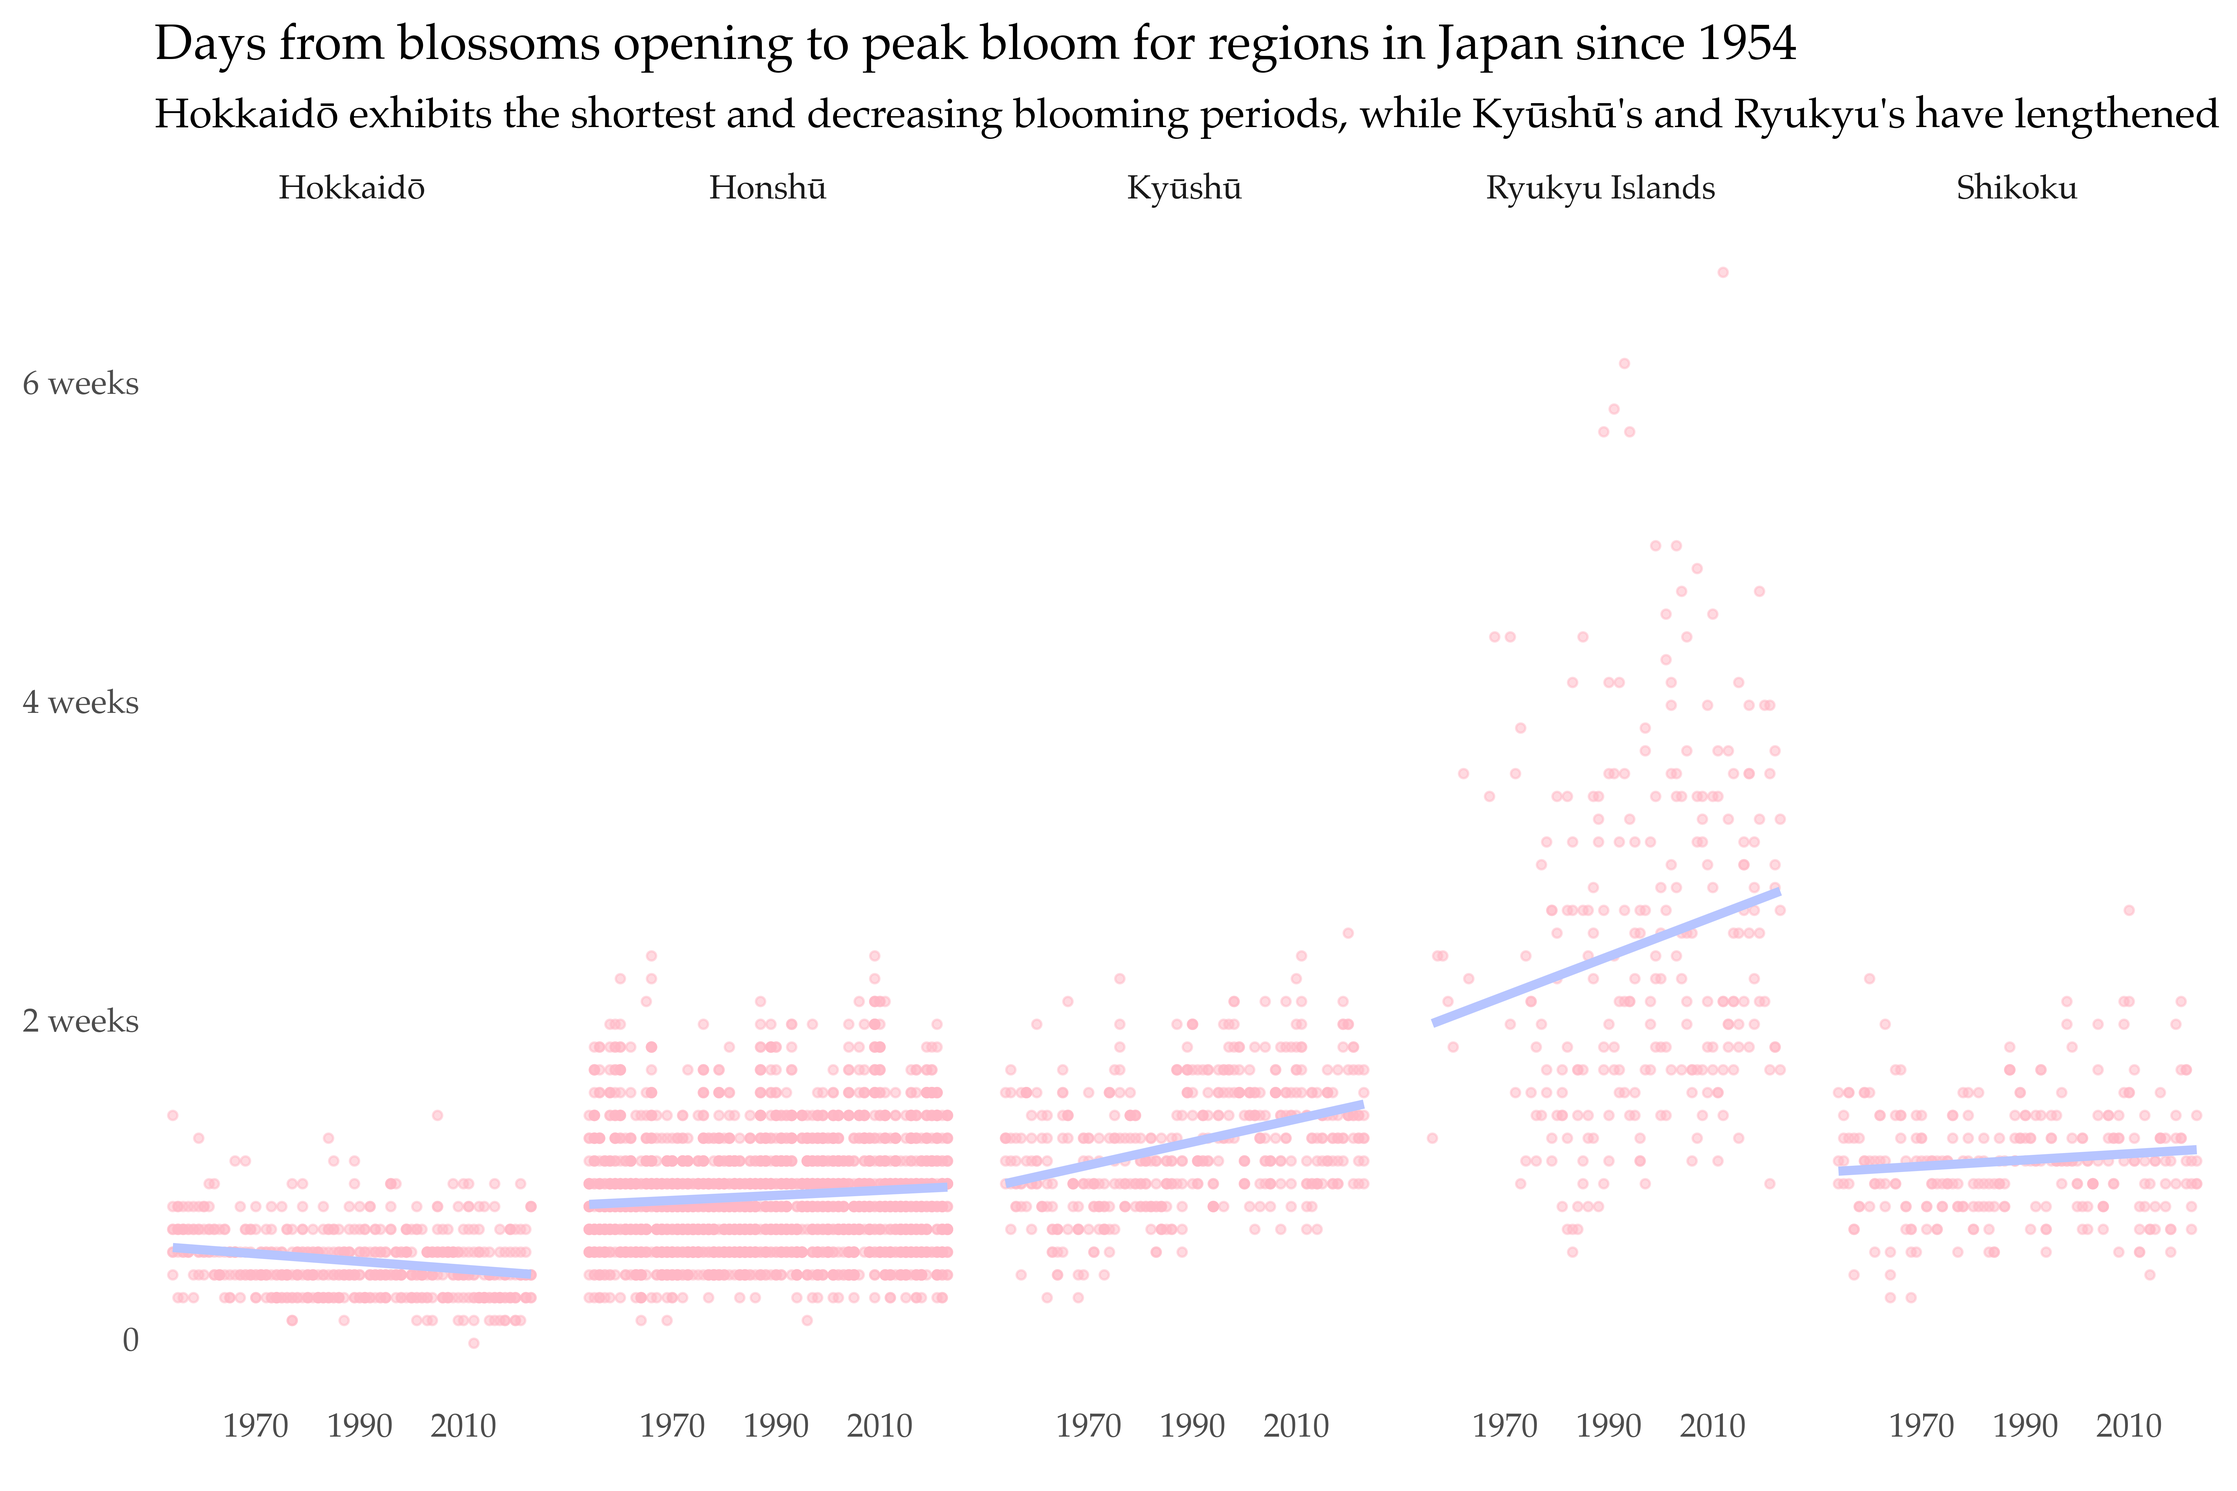
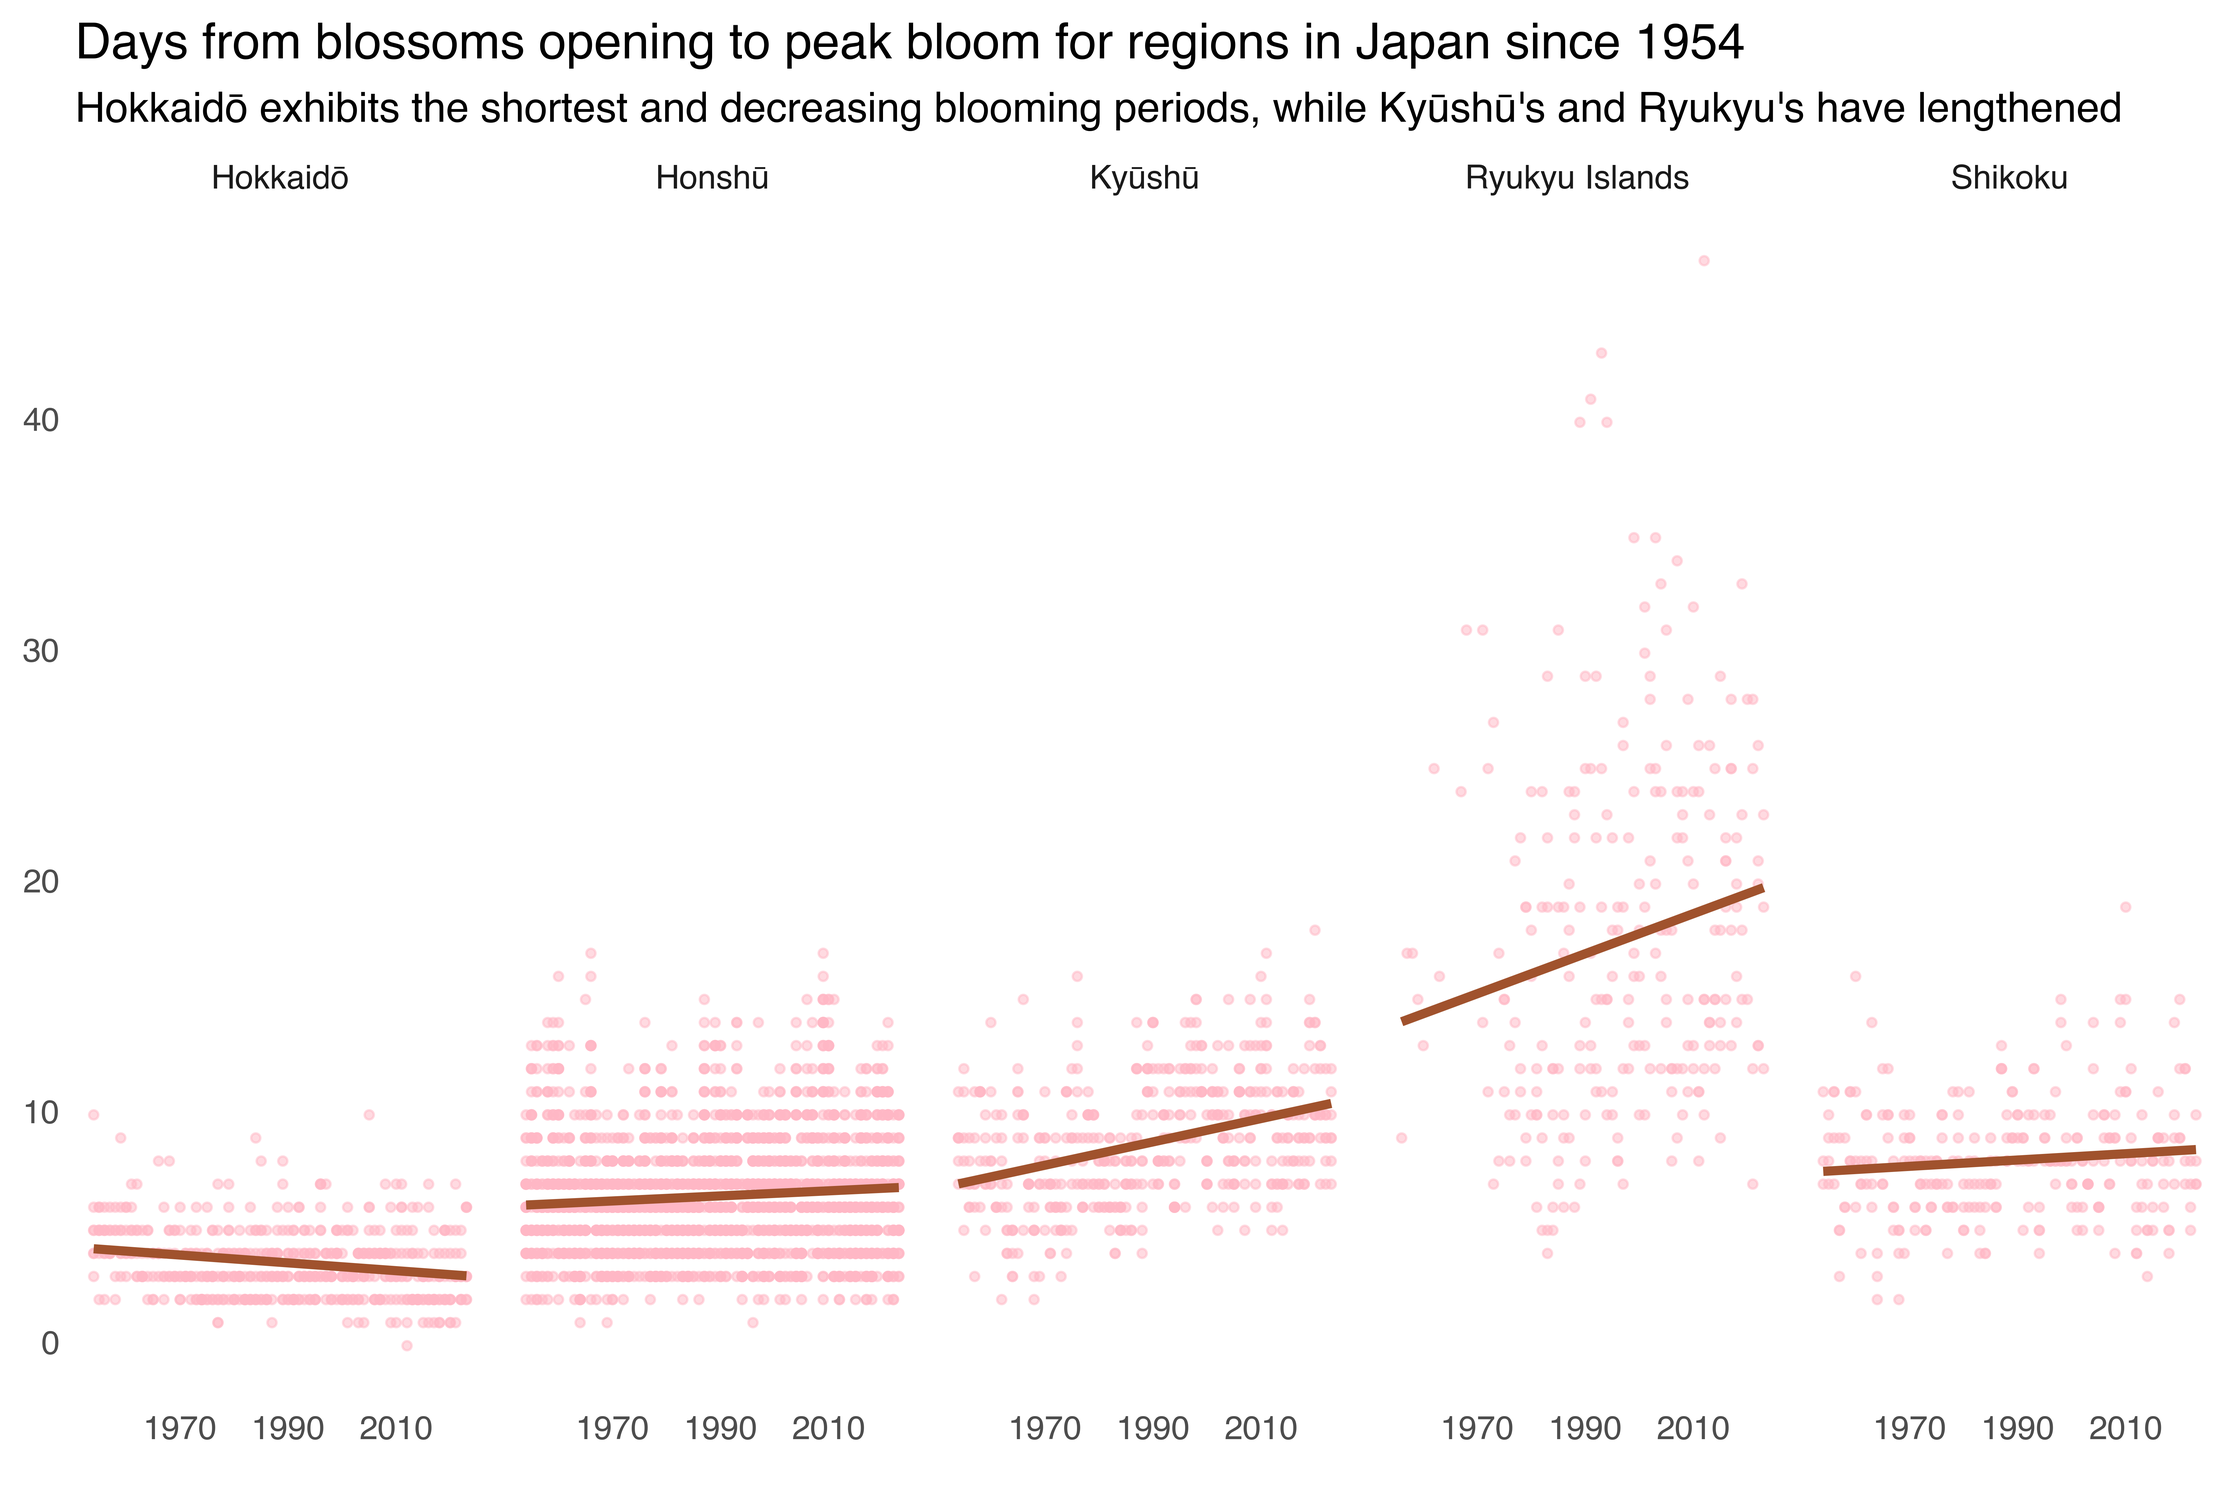
Updated font and color of line in posts/sakura-visualizations

diff --git a/docs/posts/sakura-visualizations/index.html b/docs/posts/sakura-visualizations/index.html
@@ -320,8 +320,9 @@ cookieconsent.run({
 <span id="cb4-17"><a href="#cb4-17" aria-hidden="true" tabindex="-1"></a>  .select(<span class="op">~</span>s.contains(<span class="st">"_right"</span>))</span>
 <span id="cb4-18"><a href="#cb4-18" aria-hidden="true" tabindex="-1"></a>  .mutate(year <span class="op">=</span> _.year.cast(<span class="st">"int32"</span>))</span>
 <span id="cb4-19"><a href="#cb4-19" aria-hidden="true" tabindex="-1"></a>  .mutate(days_to_full_bloom <span class="op">=</span> (_.full_bloom <span class="op">-</span> ibis.date(_.year.cast(<span class="st">'string'</span>) <span class="op">+</span> <span class="st">'-01-01'</span>)).cast(<span class="st">'interval("D")'</span>).cast(<span class="st">"int32"</span>),</span>
-<span id="cb4-20"><a href="#cb4-20" aria-hidden="true" tabindex="-1"></a>          days_from_first_to_full_bloom <span class="op">=</span> _.full_bloom <span class="op">-</span> _.first_bloom)</span>
-<span id="cb4-21"><a href="#cb4-21" aria-hidden="true" tabindex="-1"></a>)</span></code><button title="Copy to Clipboard" class="code-copy-button"><i class="bi"></i></button></pre></div>
+<span id="cb4-20"><a href="#cb4-20" aria-hidden="true" tabindex="-1"></a>          days_from_first_to_full_bloom<span class="op">=</span>(_.full_bloom <span class="op">-</span> _.first_bloom).cast(<span class="st">'interval("D")'</span>).cast(<span class="st">"int32"</span>)</span>
+<span id="cb4-21"><a href="#cb4-21" aria-hidden="true" tabindex="-1"></a>    )</span>
+<span id="cb4-22"><a href="#cb4-22" aria-hidden="true" tabindex="-1"></a>)</span></code><button title="Copy to Clipboard" class="code-copy-button"><i class="bi"></i></button></pre></div>
 </div>
 </div>
 </div>
@@ -391,7 +392,7 @@ cookieconsent.run({
 <div class="tab-content">
 <div id="tabset-5-1" class="tab-pane active" role="tabpanel" aria-labelledby="tabset-5-1-tab">
 <div class="cell">
-<div class="sourceCode cell-code" id="cb9"><pre class="sourceCode r code-with-copy"><code class="sourceCode r"><span id="cb9-1"><a href="#cb9-1" aria-hidden="true" tabindex="-1"></a><span class="fu">theme_set</span>(<span class="fu">theme_classic</span>(<span class="at">base_size =</span> <span class="dv">16</span>, <span class="at">base_family =</span> <span class="st">"Palatino"</span>)) </span>
+<div class="sourceCode cell-code" id="cb9"><pre class="sourceCode r code-with-copy"><code class="sourceCode r"><span id="cb9-1"><a href="#cb9-1" aria-hidden="true" tabindex="-1"></a><span class="fu">theme_set</span>(<span class="fu">theme_classic</span>(<span class="at">base_size =</span> <span class="dv">16</span>, <span class="at">base_family =</span> <span class="st">"SF Pro Light"</span>)) </span>
 <span id="cb9-2"><a href="#cb9-2" aria-hidden="true" tabindex="-1"></a></span>
 <span id="cb9-3"><a href="#cb9-3" aria-hidden="true" tabindex="-1"></a><span class="fu">theme_update</span>(</span>
 <span id="cb9-4"><a href="#cb9-4" aria-hidden="true" tabindex="-1"></a>  <span class="at">panel.grid.minor =</span> <span class="fu">element_blank</span>(),</span>
@@ -403,26 +404,36 @@ cookieconsent.run({
 <span id="cb9-10"><a href="#cb9-10" aria-hidden="true" tabindex="-1"></a>  <span class="at">axis.line =</span> <span class="fu">element_blank</span>()</span>
 <span id="cb9-11"><a href="#cb9-11" aria-hidden="true" tabindex="-1"></a>)</span>
 <span id="cb9-12"><a href="#cb9-12" aria-hidden="true" tabindex="-1"></a></span>
-<span id="cb9-13"><a href="#cb9-13" aria-hidden="true" tabindex="-1"></a>colors <span class="ot">&lt;-</span> <span class="fu">c</span>(<span class="st">"#ffb7c5"</span>, <span class="st">"#b7c5ff"</span>, <span class="st">"#c5ffb7"</span>)</span>
+<span id="cb9-13"><a href="#cb9-13" aria-hidden="true" tabindex="-1"></a>colors <span class="ot">&lt;-</span> <span class="fu">c</span>(<span class="st">"#ffb7c5"</span>, <span class="st">"#A0522D"</span>)</span>
 <span id="cb9-14"><a href="#cb9-14" aria-hidden="true" tabindex="-1"></a>breaks_year <span class="ot">&lt;-</span> <span class="fu">seq</span>(<span class="dv">1950</span>, <span class="dv">2030</span>, <span class="at">by =</span> <span class="dv">20</span>)</span></code><button title="Copy to Clipboard" class="code-copy-button"><i class="bi"></i></button></pre></div>
 </div>
 </div>
 <div id="tabset-5-2" class="tab-pane" role="tabpanel" aria-labelledby="tabset-5-2-tab">
 <div class="cell">
-<div class="sourceCode cell-code" id="cb10"><pre class="sourceCode python code-with-copy"><code class="sourceCode python"><span id="cb10-1"><a href="#cb10-1" aria-hidden="true" tabindex="-1"></a>theme_set(theme_classic(base_size <span class="op">=</span> <span class="dv">16</span>, base_family <span class="op">=</span> <span class="st">"Palatino"</span>) <span class="op">+</span> theme(figure_size <span class="op">=</span> (<span class="dv">12</span>, <span class="dv">8</span>)))</span>
-<span id="cb10-2"><a href="#cb10-2" aria-hidden="true" tabindex="-1"></a></span>
-<span id="cb10-3"><a href="#cb10-3" aria-hidden="true" tabindex="-1"></a>theme_update(</span>
-<span id="cb10-4"><a href="#cb10-4" aria-hidden="true" tabindex="-1"></a>  panel_grid_minor <span class="op">=</span> element_blank(),</span>
-<span id="cb10-5"><a href="#cb10-5" aria-hidden="true" tabindex="-1"></a>  panel_grid_major <span class="op">=</span> element_blank(),</span>
-<span id="cb10-6"><a href="#cb10-6" aria-hidden="true" tabindex="-1"></a>  strip_background <span class="op">=</span> element_blank(),</span>
-<span id="cb10-7"><a href="#cb10-7" aria-hidden="true" tabindex="-1"></a>  axis_title_x <span class="op">=</span> element_blank(),</span>
-<span id="cb10-8"><a href="#cb10-8" aria-hidden="true" tabindex="-1"></a>  axis_title_y <span class="op">=</span> element_blank(),</span>
-<span id="cb10-9"><a href="#cb10-9" aria-hidden="true" tabindex="-1"></a>  axis_ticks <span class="op">=</span> element_blank(),</span>
-<span id="cb10-10"><a href="#cb10-10" aria-hidden="true" tabindex="-1"></a>  axis_line <span class="op">=</span> element_blank()</span>
-<span id="cb10-11"><a href="#cb10-11" aria-hidden="true" tabindex="-1"></a>)</span>
+<div class="sourceCode cell-code" id="cb10"><pre class="sourceCode python code-with-copy"><code class="sourceCode python"><span id="cb10-1"><a href="#cb10-1" aria-hidden="true" tabindex="-1"></a><span class="im">import</span> matplotlib.pyplot <span class="im">as</span> plt</span>
+<span id="cb10-2"><a href="#cb10-2" aria-hidden="true" tabindex="-1"></a><span class="im">import</span> matplotlib.font_manager <span class="im">as</span> fm</span>
+<span id="cb10-3"><a href="#cb10-3" aria-hidden="true" tabindex="-1"></a></span>
+<span id="cb10-4"><a href="#cb10-4" aria-hidden="true" tabindex="-1"></a>fpath <span class="op">=</span> <span class="st">"/Library/Fonts/SF-Pro.ttf"</span></span>
+<span id="cb10-5"><a href="#cb10-5" aria-hidden="true" tabindex="-1"></a></span>
+<span id="cb10-6"><a href="#cb10-6" aria-hidden="true" tabindex="-1"></a>fm.fontManager.addfont(fpath)</span>
+<span id="cb10-7"><a href="#cb10-7" aria-hidden="true" tabindex="-1"></a>prop <span class="op">=</span> fm.FontProperties(fname<span class="op">=</span>fpath)</span>
+<span id="cb10-8"><a href="#cb10-8" aria-hidden="true" tabindex="-1"></a>font_name <span class="op">=</span> prop.get_name()</span>
+<span id="cb10-9"><a href="#cb10-9" aria-hidden="true" tabindex="-1"></a>plt.rcParams[<span class="st">"font.family"</span>] <span class="op">=</span> font_name</span>
+<span id="cb10-10"><a href="#cb10-10" aria-hidden="true" tabindex="-1"></a></span>
+<span id="cb10-11"><a href="#cb10-11" aria-hidden="true" tabindex="-1"></a>theme_set(theme_classic(base_size <span class="op">=</span> <span class="dv">16</span>) <span class="op">+</span> theme(figure_size <span class="op">=</span> (<span class="dv">12</span>, <span class="dv">8</span>)))</span>
 <span id="cb10-12"><a href="#cb10-12" aria-hidden="true" tabindex="-1"></a></span>
-<span id="cb10-13"><a href="#cb10-13" aria-hidden="true" tabindex="-1"></a>colors <span class="op">=</span> [<span class="st">"#ffb7c5"</span>, <span class="st">"#b7c5ff"</span>, <span class="st">"#c5ffb7"</span>]</span>
-<span id="cb10-14"><a href="#cb10-14" aria-hidden="true" tabindex="-1"></a>breaks_year <span class="op">=</span> <span class="bu">range</span>(<span class="dv">1950</span>, <span class="dv">2031</span>, <span class="dv">20</span>)</span></code><button title="Copy to Clipboard" class="code-copy-button"><i class="bi"></i></button></pre></div>
+<span id="cb10-13"><a href="#cb10-13" aria-hidden="true" tabindex="-1"></a>theme_update(</span>
+<span id="cb10-14"><a href="#cb10-14" aria-hidden="true" tabindex="-1"></a>  panel_grid_minor <span class="op">=</span> element_blank(),</span>
+<span id="cb10-15"><a href="#cb10-15" aria-hidden="true" tabindex="-1"></a>  panel_grid_major <span class="op">=</span> element_blank(),</span>
+<span id="cb10-16"><a href="#cb10-16" aria-hidden="true" tabindex="-1"></a>  strip_background <span class="op">=</span> element_blank(),</span>
+<span id="cb10-17"><a href="#cb10-17" aria-hidden="true" tabindex="-1"></a>  axis_title_x <span class="op">=</span> element_blank(),</span>
+<span id="cb10-18"><a href="#cb10-18" aria-hidden="true" tabindex="-1"></a>  axis_title_y <span class="op">=</span> element_blank(),</span>
+<span id="cb10-19"><a href="#cb10-19" aria-hidden="true" tabindex="-1"></a>  axis_ticks <span class="op">=</span> element_blank(),</span>
+<span id="cb10-20"><a href="#cb10-20" aria-hidden="true" tabindex="-1"></a>  axis_line <span class="op">=</span> element_blank()</span>
+<span id="cb10-21"><a href="#cb10-21" aria-hidden="true" tabindex="-1"></a>)</span>
+<span id="cb10-22"><a href="#cb10-22" aria-hidden="true" tabindex="-1"></a></span>
+<span id="cb10-23"><a href="#cb10-23" aria-hidden="true" tabindex="-1"></a>colors <span class="op">=</span> [<span class="st">"#ffb7c5"</span>, <span class="st">"#A0522D"</span>]</span>
+<span id="cb10-24"><a href="#cb10-24" aria-hidden="true" tabindex="-1"></a>breaks_year <span class="op">=</span> <span class="bu">range</span>(<span class="dv">1950</span>, <span class="dv">2031</span>, <span class="dv">20</span>)</span></code><button title="Copy to Clipboard" class="code-copy-button"><i class="bi"></i></button></pre></div>
 </div>
 </div>
 </div>
@@ -442,7 +453,7 @@ cookieconsent.run({
 <span id="cb11-4"><a href="#cb11-4" aria-hidden="true" tabindex="-1"></a>  <span class="fu">geom_smooth</span>(<span class="at">method =</span> lm, <span class="at">se =</span> <span class="cn">FALSE</span>,</span>
 <span id="cb11-5"><a href="#cb11-5" aria-hidden="true" tabindex="-1"></a>              <span class="at">color =</span> colors[<span class="dv">2</span>], <span class="at">linewidth =</span> <span class="dv">2</span>) <span class="sc">+</span></span>
 <span id="cb11-6"><a href="#cb11-6" aria-hidden="true" tabindex="-1"></a>  <span class="fu">facet_wrap</span>(<span class="sc">~</span>region, <span class="at">nrow =</span> <span class="dv">1</span>) <span class="sc">+</span> </span>
-<span id="cb11-7"><a href="#cb11-7" aria-hidden="true" tabindex="-1"></a>  <span class="fu">labs</span>(<span class="at">title =</span> <span class="st">"Day of the year with peak cherry tree blossom for regions in Japan since 1953"</span>,</span>
+<span id="cb11-7"><a href="#cb11-7" aria-hidden="true" tabindex="-1"></a>  <span class="fu">labs</span>(<span class="at">title =</span> <span class="st">"Day of the year with peak cherry tree blossom for regions in Japan since 1954"</span>,</span>
 <span id="cb11-8"><a href="#cb11-8" aria-hidden="true" tabindex="-1"></a>       <span class="at">subtitle =</span> <span class="st">"Cities in northern regions Hokkaidō and Honshū exhibit earlier full blooms, while Ryukyu Islands even later"</span>,</span>
 <span id="cb11-9"><a href="#cb11-9" aria-hidden="true" tabindex="-1"></a>       <span class="at">x =</span> <span class="cn">NULL</span>, <span class="at">y =</span> <span class="cn">NULL</span>) <span class="sc">+</span></span>
 <span id="cb11-10"><a href="#cb11-10" aria-hidden="true" tabindex="-1"></a>  <span class="fu">scale_x_continuous</span>(<span class="at">breaks =</span> breaks_year) <span class="sc">+</span></span>
@@ -457,7 +468,7 @@ cookieconsent.run({
 </div>
 </div>
 <div id="tabset-6-2" class="tab-pane" role="tabpanel" aria-labelledby="tabset-6-2-tab">
-<p><code>linewidth</code> is still <code>size</code> in plotnine</p>
+<p>Note that <code>linewidth</code> is still <code>size</code> in plotnine</p>
 <div class="cell">
 <div class="sourceCode cell-code" id="cb12"><pre class="sourceCode python code-with-copy"><code class="sourceCode python"><span id="cb12-1"><a href="#cb12-1" aria-hidden="true" tabindex="-1"></a>(ggplot(sakura_data, </span>
 <span id="cb12-2"><a href="#cb12-2" aria-hidden="true" tabindex="-1"></a>         aes(x <span class="op">=</span> <span class="st">"year"</span>, y <span class="op">=</span> <span class="st">"days_to_full_bloom"</span>))</span>
@@ -1056,7 +1067,7 @@ window.document.addEventListener("DOMContentLoaded", function (event) {
     </div>
   </div>
 </footer>
-<script>var lightboxQuarto = GLightbox({"selector":".lightbox","openEffect":"zoom","loop":false,"closeEffect":"zoom","descPosition":"bottom"});
+<script>var lightboxQuarto = GLightbox({"descPosition":"bottom","selector":".lightbox","loop":false,"closeEffect":"zoom","openEffect":"zoom"});
 (function() {
   let previousOnload = window.onload;
   window.onload = () => {

diff --git a/docs/index.html b/docs/index.html
@@ -217,7 +217,7 @@ window.Quarto = {
 
 <div class="quarto-listing quarto-listing-container-grid" id="listing-listing">
 <div class="list grid quarto-listing-cols-3">
-<div class="g-col-1" data-index="0" data-categories="R,Python,Visualization" data-listing-date-sort="1716760800000" data-listing-file-modified-sort="1719825374036" data-listing-date-modified-sort="NaN" data-listing-reading-time-sort="11" data-listing-word-count-sort="2065">
+<div class="g-col-1" data-index="0" data-categories="R,Python,Visualization" data-listing-date-sort="1716760800000" data-listing-file-modified-sort="1720109237477" data-listing-date-modified-sort="NaN" data-listing-reading-time-sort="11" data-listing-word-count-sort="2080">
 <a href="./posts/sakura-visualizations/index.html" class="quarto-grid-link">
 <div class="quarto-grid-item card h-100 card-left">
 <p class="card-img-top">
